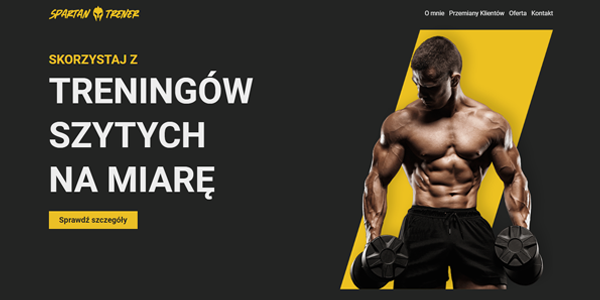
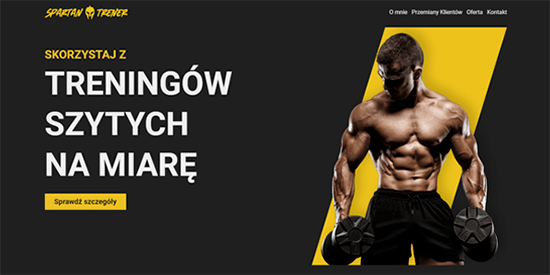
Image optimization

diff --git a/public/assets/index.js b/public/assets/index.js
@@ -1,0 +1,29 @@
+import favicon from "./logoImgs/favicon.webp"
+import WMlogo from "./logoImgs/WMlogo.png"
+import HeroImg from "./hero.png"
+import done from "./isometric/done.png"
+import idea from "./isometric/idea.png"
+import preview from "./isometric/preview.png"
+import working from "./isometric/working.png"
+import trainer from './portfolio/trainer.png'
+import pizza from './portfolio/pizza.png'
+import testimonial01 from "./testimonials/testimonial01.jpg"
+import testimonial_vladyslaw from "./testimonials/testimonial_vladyslaw.png"
+import aboutImg from "./about.png"
+import line from "./arrows/line.svg"
+
+export {
+    favicon,
+    WMlogo,
+    HeroImg,
+    done,
+    idea,
+    preview,
+    working,
+    trainer,
+    pizza,
+    testimonial01,
+    aboutImg, 
+    line,
+    testimonial_vladyslaw
+}

diff --git a/src/constants/index.js b/src/constants/index.js
@@ -187,7 +187,7 @@ export const portfolio = [
     {
         title:"Spartan Trener",
         desc: "Landing site dla trenera personalnego",
-        img:'/assets/portfolio/trainer.png',
+        img:'/assets/portfolio/trainer.webp',
         link:"https://spartan-trener.online/",
         features:[
             'Landing site',
@@ -199,7 +199,7 @@ export const portfolio = [
     {
         title:"Pizza Eccezionale",
         desc: "Strona internetowa pizzerii z kilkoma podstronami",
-        img:'/assets/portfolio/pizza.png',
+        img:'/assets/portfolio/pizza.webp',
         link:"https://pizzaeccezionale.online/",
         features:[
             '3 podstrony',

diff --git a/src/components/templates/privacyPolicy.js b/src/components/templates/privacyPolicy.js
@@ -27,7 +27,7 @@ export default function PrivacyPolicy() {
             <div className="flex-center">
               <a href='/'>
                 <img 
-                src={'/assets/logoImgs/WMlogo.png'}
+                src={'/assets/logoImgs/WMlogo.webp'}
                 alt="Web-Masters logo"
                 className={'w-[50px]'}
                 />

diff --git a/src/components/organisms/about.js b/src/components/organisms/about.js
@@ -11,7 +11,7 @@ export default function About() {
         <div className="flex flex-col xl:flex-row gap-16">
           <div className="flex-1 md:block hidden mx-auto">
             <img 
-              src={'/assets/about.png'}
+              src={'/assets/about.webp'}
               alt="Edytor kodu"
               className="w-[600px]"
             />

diff --git a/src/components/organisms/hero.js b/src/components/organisms/hero.js
@@ -31,7 +31,7 @@ export default function Hero() {
           <div className="flex-1 max-w-[60vw] sm:max-w-[40vw] md:max-w-[50vw] block sm:hidden lg:block">
           <img 
             className="float-right w-[600px]"
-            src={'/assets/hero.png'}
+            src={'/assets/hero.webp'}
             alt="Komputer"
           />
           </div>

diff --git a/src/components/templates/offerSelection.js b/src/components/templates/offerSelection.js
@@ -27,7 +27,7 @@ export default function OfferSelection({plan}) {
           <div className="flex-center">
             <a href='/'>
               <img 
-              src={'/assets/logoImgs/WMlogo.png'}
+              src={'/assets/logoImgs/WMlogo.webp'}
               alt="Web-Masters logo"
               className={'w-[50px]'}
               />

diff --git a/src/components/templates/navbar.js b/src/components/templates/navbar.js
@@ -72,7 +72,7 @@ export default function Navbar() {
       <div className="flex-center">
         <a href='/'>
           <img 
-          src={'/assets/logoImgs/WMlogo.png'}
+          src={'/assets/logoImgs/WMlogo.webp'}
           alt="Web-Masters logo"
           className={'w-[50px]'}
           />
